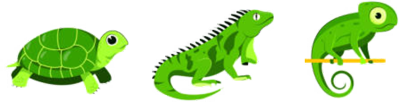
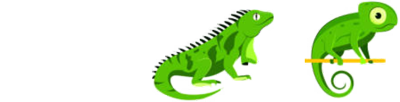
Add files via upload

Changed region(s): [[0.0, 0.2647, 0.33, 0.9412]]

diff --git a/index_edge.js b/index_edge.js
@@ -29,7 +29,7 @@ var symbols = {
             {
                 id: 'a',
                 type: 'image',
-                rect: ['0px', '594px','117px','78px','auto', 'auto'],
+                rect: ['1px', '584px','117px','78px','auto', 'auto'],
                 fill: ["rgba(0,0,0,0)",im+"a.jpg",'0px','0px']
             },
             {
@@ -49,15 +49,9 @@ var symbols = {
             {
                 id: 'ci',
                 type: 'image',
-                rect: ['0px', '209px','120px','120px','auto', 'auto'],
+                rect: ['0px', '216px','120px','120px','auto', 'auto'],
                 fill: ["rgba(0,0,0,0)",im+"ci.png",'0px','0px'],
                 transform: [[],['90']]
-            },
-            {
-                id: 'bu',
-                type: 'image',
-                rect: ['449px', '30','30px','174px','auto', 'auto'],
-                fill: ["rgba(0,0,0,0)",im+"bu.jpg",'0px','0px']
             },
             {
                 id: 'gr',
@@ -70,10 +64,10 @@ var symbols = {
             {
                 id: 't',
                 type: 'image',
-                rect: ['-76px', '493px','272px','48px','auto', 'auto'],
+                rect: ['-76px', '466px','272px','48px','auto', 'auto'],
                 clip: ['rect(0px 272px 48px 56px)'],
                 fill: ["rgba(0,0,0,0)",im+"t.jpg",'0px','0px'],
-                transform: [[],['-90'],[],['0.78858','0.78858']]
+                transform: [[],['-90']]
             },
             {
                 id: 'li',
@@ -86,7 +80,7 @@ var symbols = {
             {
                 id: 'a1',
                 type: 'image',
-                rect: ['-117px', '215px','336px','123px','auto', 'auto'],
+                rect: ['-117px', '222px','336px','123px','auto', 'auto'],
                 clip: ['rect(2px 251.44102478027344px 123px 103.08131408691406px)'],
                 fill: ["rgba(0,0,0,0)",im+"a1.png",'0px','0px'],
                 transform: [[],[],[],['0.99339','0.99339']]
@@ -94,16 +88,14 @@ var symbols = {
             {
                 id: 'a3',
                 type: 'image',
-                rect: ['9px', '230px','336px','86px','auto', 'auto'],
-                fill: ["rgba(0,0,0,0)",im+"a3.png",'0px','0px'],
-                transform: [[],[],[],[],['15.7738%','51.938%']]
+                rect: ['9px', '237px','336px','86px','auto', 'auto'],
+                fill: ["rgba(0,0,0,0)",im+"a3.png",'0px','0px']
             },
             {
                 id: 'a4',
                 type: 'image',
-                rect: ['-221px', '195px','336px','128px','auto', 'auto'],
-                fill: ["rgba(0,0,0,0)",im+"a4.png",'0px','0px'],
-                transform: [[],[],[],[],['86.0119%','48.4375%']]
+                rect: ['-221px', '202px','336px','128px','auto', 'auto'],
+                fill: ["rgba(0,0,0,0)",im+"a4.png",'0px','0px']
             },
             {
                 id: 'a2',
@@ -119,35 +111,35 @@ var symbols = {
     states: {
         "Base State": {
             "${_a2}": [
-                ["style", "top", '217px'],
+                ["style", "top", '218px'],
                 ["style", "background-position", [0,0], {valueTemplate:'@@0@@px @@1@@px'} ],
-                ["style", "clip", [0,336,143,204], {valueTemplate:'rect(@@0@@px @@1@@px @@2@@px @@3@@px)'} ],
+                ["style", "left", '-214px'],
                 ["style", "height", '143px'],
                 ["style", "opacity", '0'],
-                ["style", "left", '-214px'],
+                ["style", "clip", [0,336,143,204], {valueTemplate:'rect(@@0@@px @@1@@px @@2@@px @@3@@px)'} ],
                 ["style", "width", '336px']
             ],
             "${_li}": [
                 ["style", "top", '144px'],
                 ["transform", "scaleY", '0.85'],
-                ["style", "background-position", [0,20], {valueTemplate:'@@0@@px @@1@@px'} ],
+                ["style", "left", '1px'],
                 ["transform", "scaleX", '0.85'],
                 ["style", "opacity", '0'],
-                ["style", "clip", [20,120,47.66650390625,0], {valueTemplate:'rect(@@0@@px @@1@@px @@2@@px @@3@@px)'} ],
-                ["style", "left", '1px']
+                ["style", "background-position", [0,20], {valueTemplate:'@@0@@px @@1@@px'} ],
+                ["style", "clip", [20,120,47.66650390625,0], {valueTemplate:'rect(@@0@@px @@1@@px @@2@@px @@3@@px)'} ]
             ],
             "${_a}": [
-                ["style", "top", '594px'],
+                ["style", "top", '584px'],
                 ["style", "height", '78px'],
                 ["style", "opacity", '0'],
-                ["style", "left", '0px'],
+                ["style", "left", '1px'],
                 ["style", "width", '117px']
             ],
             "${_lo}": [
-                ["style", "top", '14px'],
+                ["style", "top", '10px'],
                 ["transform", "scaleY", '0.95'],
-                ["transform", "scaleX", '0.95'],
                 ["style", "height", '75px'],
+                ["transform", "scaleX", '0.95'],
                 ["style", "opacity", '0'],
                 ["style", "left", '2px'],
                 ["style", "width", '118px']
@@ -157,54 +149,47 @@ var symbols = {
                 ["style", "opacity", '1'],
                 ["style", "left", '-117px'],
                 ["style", "width", '336px'],
-                ["style", "top", '215px'],
+                ["style", "top", '222px'],
                 ["transform", "scaleY", '0'],
                 ["style", "height", '123px'],
                 ["style", "clip", [2,251.44102478027344,123,103.08131408691406], {valueTemplate:'rect(@@0@@px @@1@@px @@2@@px @@3@@px)'} ],
                 ["style", "background-position", [0,0], {valueTemplate:'@@0@@px @@1@@px'} ]
             ],
-            "${_bu}": [
-                ["style", "left", '449px']
+            "${_t}": [
+                ["transform", "rotateZ", '-90deg'],
+                ["transform", "scaleX", '1'],
+                ["style", "opacity", '0'],
+                ["style", "left", '-76px'],
+                ["style", "width", '272px'],
+                ["style", "top", '466px'],
+                ["transform", "scaleY", '1'],
+                ["style", "height", '48px'],
+                ["style", "clip", [0,272,48,56], {valueTemplate:'rect(@@0@@px @@1@@px @@2@@px @@3@@px)'} ]
             ],
             "${_gr}": [
                 ["style", "top", '347px'],
-                ["style", "clip", [0,118,42,29.90804672241211], {valueTemplate:'rect(@@0@@px @@1@@px @@2@@px @@3@@px)'} ],
-                ["transform", "scaleY", '1.25778'],
-                ["transform", "scaleX", '1.25778'],
                 ["style", "height", '42px'],
-                ["style", "opacity", '0'],
+                ["transform", "scaleY", '1.25778'],
                 ["style", "left", '-18px'],
-                ["style", "width", '118px']
-            ],
-            "${_a3}": [
-                ["style", "-webkit-transform-origin", [15.77,51.94], {valueTemplate:'@@0@@% @@1@@%'} ],
-                ["style", "-moz-transform-origin", [15.77,51.94],{valueTemplate:'@@0@@% @@1@@%'}],
-                ["style", "-ms-transform-origin", [15.77,51.94],{valueTemplate:'@@0@@% @@1@@%'}],
-                ["style", "msTransformOrigin", [15.77,51.94],{valueTemplate:'@@0@@% @@1@@%'}],
-                ["style", "-o-transform-origin", [15.77,51.94],{valueTemplate:'@@0@@% @@1@@%'}],
-                ["transform", "scaleX", '0'],
+                ["transform", "scaleX", '1.25778'],
                 ["style", "opacity", '0'],
-                ["style", "left", '9px'],
-                ["style", "width", '336px'],
-                ["style", "top", '230px'],
-                ["transform", "scaleY", '0'],
-                ["style", "height", '86px'],
-                ["style", "background-position", [0,0], {valueTemplate:'@@0@@px @@1@@px'} ]
+                ["style", "clip", [0,118,42,29.90804672241211], {valueTemplate:'rect(@@0@@px @@1@@px @@2@@px @@3@@px)'} ],
+                ["style", "width", '118px']
             ],
             "${_n}": [
                 ["style", "top", '98px'],
                 ["transform", "scaleY", '0.95'],
-                ["transform", "scaleX", '0.95'],
                 ["style", "height", '70px'],
+                ["transform", "scaleX", '0.95'],
                 ["style", "opacity", '0'],
                 ["style", "left", '2px'],
                 ["style", "width", '118px']
             ],
             "${_Stage}": [
                 ["color", "background-color", 'rgba(255,255,255,1)'],
-                ["style", "width", '120px'],
+                ["style", "overflow", 'hidden'],
                 ["style", "height", '670px'],
-                ["style", "overflow", 'hidden']
+                ["style", "width", '120px']
             ],
             "${_a4}": [
                 ["style", "-webkit-transform-origin", [86.01,48.44], {valueTemplate:'@@0@@% @@1@@%'} ],
@@ -216,28 +201,32 @@ var symbols = {
                 ["style", "opacity", '0'],
                 ["style", "left", '-221px'],
                 ["style", "width", '336px'],
-                ["style", "top", '195px'],
+                ["style", "top", '202px'],
                 ["transform", "scaleY", '0'],
                 ["style", "height", '128px'],
                 ["style", "clip", [0,336,128,0], {valueTemplate:'rect(@@0@@px @@1@@px @@2@@px @@3@@px)'} ],
                 ["style", "background-position", [0,0], {valueTemplate:'@@0@@px @@1@@px'} ]
             ],
             "${_ci}": [
-                ["style", "top", '209px'],
+                ["style", "top", '216px'],
                 ["style", "opacity", '0'],
                 ["style", "left", '0px'],
                 ["transform", "rotateZ", '90deg']
             ],
-            "${_t}": [
-                ["transform", "rotateZ", '-90deg'],
-                ["transform", "scaleX", '0.78858'],
+            "${_a3}": [
+                ["style", "-webkit-transform-origin", [15.77,51.94], {valueTemplate:'@@0@@% @@1@@%'} ],
+                ["style", "-moz-transform-origin", [15.77,51.94],{valueTemplate:'@@0@@% @@1@@%'}],
+                ["style", "-ms-transform-origin", [15.77,51.94],{valueTemplate:'@@0@@% @@1@@%'}],
+                ["style", "msTransformOrigin", [15.77,51.94],{valueTemplate:'@@0@@% @@1@@%'}],
+                ["style", "-o-transform-origin", [15.77,51.94],{valueTemplate:'@@0@@% @@1@@%'}],
+                ["transform", "scaleX", '0'],
                 ["style", "opacity", '0'],
-                ["style", "left", '-76px'],
-                ["style", "width", '272px'],
-                ["style", "top", '493px'],
-                ["transform", "scaleY", '0.78858'],
-                ["style", "height", '48px'],
-                ["style", "clip", [0,272,48,56], {valueTemplate:'rect(@@0@@px @@1@@px @@2@@px @@3@@px)'} ]
+                ["style", "left", '9px'],
+                ["style", "width", '336px'],
+                ["style", "top", '237px'],
+                ["transform", "scaleY", '0'],
+                ["style", "height", '86px'],
+                ["style", "background-position", [0,0], {valueTemplate:'@@0@@px @@1@@px'} ]
             ]
         }
     },
@@ -245,72 +234,79 @@ var symbols = {
         "Default Timeline": {
             fromState: "Base State",
             toState: "",
-            duration: 23333,
+            duration: 21000,
             autoPlay: true,
             timeline: [
-                { id: "eid68", tween: [ "transform", "${_a3}", "scaleX", '1', { fromValue: '0'}], position: 13583, duration: 280 },
-                { id: "eid99", tween: [ "style", "${_gr}", "left", '-18px', { fromValue: '-18px'}], position: 1333, duration: 0 },
-                { id: "eid119", tween: [ "style", "${_n}", "opacity", '1', { fromValue: '0'}], position: 444, duration: 444 },
-                { id: "eid100", tween: [ "style", "${_gr}", "top", '347px', { fromValue: '347px'}], position: 1333, duration: 0 },
-                { id: "eid48", tween: [ "style", "${_a4}", "background-position", [107.55533854166,0], { valueTemplate: '@@0@@px @@1@@px', fromValue: [0,0]}], position: 8833, duration: 500 },
-                { id: "eid59", tween: [ "style", "${_a4}", "background-position", [231.55497233072,0], { valueTemplate: '@@0@@px @@1@@px', fromValue: [107.55533854166,0]}], position: 10833, duration: 568 },
-                { id: "eid3", tween: [ "transform", "${_a1}", "scaleY", '0.8', { fromValue: '0'}], position: 1333, duration: 250 },
-                { id: "eid81", tween: [ "transform", "${_a1}", "scaleY", '0.9', { fromValue: '0.8'}], position: 3428, duration: 189 },
-                { id: "eid109", tween: [ "style", "${_ci}", "opacity", '1', { fromValue: '0'}], position: 889, duration: 444 },
-                { id: "eid93", tween: [ "style", "${_a2}", "background-position", [125.33349609375,0], { valueTemplate: '@@0@@px @@1@@px', fromValue: [0,0]}], position: 19583, duration: 568 },
-                { id: "eid96", tween: [ "style", "${_a2}", "background-position", [252,0], { valueTemplate: '@@0@@px @@1@@px', fromValue: [125.33349609375,0]}], position: 21333, duration: 568 },
-                { id: "eid4", tween: [ "transform", "${_a1}", "scaleX", '0.8', { fromValue: '0'}], position: 1333, duration: 250 },
-                { id: "eid80", tween: [ "transform", "${_a1}", "scaleX", '0.9', { fromValue: '0.8'}], position: 3428, duration: 189 },
-                { id: "eid47", tween: [ "style", "${_a4}", "clip", [0,336,128,233.3333282470703], { valueTemplate: 'rect(@@0@@px @@1@@px @@2@@px @@3@@px)', fromValue: [0,336,128,0]}], position: 7330, duration: 157 },
-                { id: "eid49", tween: [ "style", "${_a4}", "clip", [0,362.6666564941406,128,202.66709899902344], { valueTemplate: 'rect(@@0@@px @@1@@px @@2@@px @@3@@px)', fromValue: [0,336,128,233.3333282470703]}], position: 8833, duration: 500 },
-                { id: "eid69", tween: [ "transform", "${_a3}", "scaleY", '1', { fromValue: '0'}], position: 13583, duration: 280 },
-                { id: "eid74", tween: [ "style", "${_a3}", "background-position", [-124,0], { valueTemplate: '@@0@@px @@1@@px', fromValue: [0,0]}], position: 15083, duration: 568 },
-                { id: "eid77", tween: [ "style", "${_a3}", "background-position", [-249.33349609375,0], { valueTemplate: '@@0@@px @@1@@px', fromValue: [-124,0]}], position: 16833, duration: 568 },
-                { id: "eid113", tween: [ "style", "${_lo}", "opacity", '1', { fromValue: '0'}], position: 0, duration: 444 },
-                { id: "eid71", tween: [ "style", "${_a3}", "opacity", '1', { fromValue: '0'}], position: 13749, duration: 115 },
-                { id: "eid72", tween: [ "style", "${_a3}", "opacity", '0', { fromValue: '1'}], position: 15083, duration: 115 },
-                { id: "eid73", tween: [ "style", "${_a3}", "opacity", '1', { fromValue: '0'}], position: 15536, duration: 115 },
-                { id: "eid75", tween: [ "style", "${_a3}", "opacity", '0', { fromValue: '1'}], position: 16833, duration: 115 },
-                { id: "eid76", tween: [ "style", "${_a3}", "opacity", '1', { fromValue: '0'}], position: 17286, duration: 115 },
-                { id: "eid84", tween: [ "style", "${_a3}", "opacity", '0', { fromValue: '1'}], position: 18229, duration: 104 },
-                { id: "eid17", tween: [ "style", "${_a1}", "opacity", '0', { fromValue: '1'}], position: 3083, duration: 115 },
-                { id: "eid19", tween: [ "style", "${_a1}", "opacity", '1', { fromValue: '0'}], position: 3617, duration: 115 },
-                { id: "eid21", tween: [ "style", "${_a1}", "opacity", '0', { fromValue: '1'}], position: 5333, duration: 115 },
-                { id: "eid24", tween: [ "style", "${_a1}", "opacity", '1', { fromValue: '0'}], position: 5833, duration: 115 },
-                { id: "eid41", tween: [ "style", "${_a1}", "opacity", '0', { fromValue: '1'}], position: 6991, duration: 115 },
-                { id: "eid127", tween: [ "style", "${_li}", "background-position", [0,-16.470588235294], { valueTemplate: '@@0@@px @@1@@px', fromValue: [0,20]}], position: 3198, duration: 419 },
-                { id: "eid129", tween: [ "style", "${_li}", "background-position", [0,-47.058823294118], { valueTemplate: '@@0@@px @@1@@px', fromValue: [0,-16.470588]}], position: 5333, duration: 496 },
-                { id: "eid130", tween: [ "style", "${_li}", "background-position", [0,-79.999999470588], { valueTemplate: '@@0@@px @@1@@px', fromValue: [0.000000,-47.058823]}], position: 6991, duration: 259 },
-                { id: "eid131", tween: [ "style", "${_li}", "background-position", [0,-109.41176370588], { valueTemplate: '@@0@@px @@1@@px', fromValue: [0.000000,-79.999999]}], position: 9102, duration: 231 },
-                { id: "eid132", tween: [ "style", "${_li}", "background-position", [0,-145.88235223529], { valueTemplate: '@@0@@px @@1@@px', fromValue: [0.000000,-109.411764]}], position: 11000, duration: 250 },
-                { id: "eid133", tween: [ "style", "${_li}", "background-position", [0,-178.82352847059], { valueTemplate: '@@0@@px @@1@@px', fromValue: [0.000000,-145.882352]}], position: 13333, duration: 250 },
-                { id: "eid134", tween: [ "style", "${_li}", "background-position", [0,-211.76470447059], { valueTemplate: '@@0@@px @@1@@px', fromValue: [0.000000,-178.823528]}], position: 18479, duration: 305 },
-                { id: "eid135", tween: [ "style", "${_li}", "background-position", [0,-237.64705694118], { valueTemplate: '@@0@@px @@1@@px', fromValue: [0.000000,-211.764704]}], position: 19698, duration: 338 },
-                { id: "eid86", tween: [ "style", "${_a2}", "opacity", '1', { fromValue: '0'}], position: 18479, duration: 104 },
-                { id: "eid91", tween: [ "style", "${_a2}", "opacity", '0', { fromValue: '1'}], position: 19583, duration: 115 },
-                { id: "eid92", tween: [ "style", "${_a2}", "opacity", '1', { fromValue: '0'}], position: 20036, duration: 115 },
-                { id: "eid94", tween: [ "style", "${_a2}", "opacity", '0', { fromValue: '1'}], position: 21333, duration: 115 },
-                { id: "eid95", tween: [ "style", "${_a2}", "opacity", '1', { fromValue: '0'}], position: 21786, duration: 115 },
-                { id: "eid115", tween: [ "style", "${_t}", "opacity", '1', { fromValue: '0'}], position: 1333, duration: 1000 },
-                { id: "eid61", tween: [ "style", "${_a4}", "opacity", '1', { fromValue: '0'}], position: 7424, duration: 115 },
-                { id: "eid55", tween: [ "style", "${_a4}", "opacity", '0', { fromValue: '1'}], position: 8833, duration: 115 },
-                { id: "eid56", tween: [ "style", "${_a4}", "opacity", '1', { fromValue: '0'}], position: 9218, duration: 115 },
-                { id: "eid57", tween: [ "style", "${_a4}", "opacity", '0', { fromValue: '1'}], position: 10833, duration: 115 },
-                { id: "eid58", tween: [ "style", "${_a4}", "opacity", '1', { fromValue: '0'}], position: 11286, duration: 115 },
-                { id: "eid62", tween: [ "style", "${_a4}", "opacity", '0', { fromValue: '1'}], position: 12833, duration: 115 },
-                { id: "eid125", tween: [ "style", "${_li}", "opacity", '1', { fromValue: '0'}], position: 1333, duration: 667 },
-                { id: "eid36", tween: [ "style", "${_a1}", "background-position", [110,0], { valueTemplate: '@@0@@px @@1@@px', fromValue: [0,0]}], position: 3083, duration: 115 },
-                { id: "eid38", tween: [ "style", "${_a1}", "background-position", [130,0], { valueTemplate: '@@0@@px @@1@@px', fromValue: [110,0]}], position: 3198, duration: 635 },
-                { id: "eid39", tween: [ "style", "${_a1}", "background-position", [-127.5,0], { valueTemplate: '@@0@@px @@1@@px', fromValue: [130,0]}], position: 5333, duration: 568 },
-                { id: "eid111", tween: [ "style", "${_gr}", "opacity", '1', { fromValue: '0'}], position: 1333, duration: 800 },
-                { id: "eid37", tween: [ "style", "${_a1}", "clip", [2,216.44102478027344,123,103.08131408691406], { valueTemplate: 'rect(@@0@@px @@1@@px @@2@@px @@3@@px)', fromValue: [2,251.44102478027344,123,103.08131408691406]}], position: 3083, duration: 534 },
-                { id: "eid40", tween: [ "style", "${_a1}", "clip", [2,216.44102478027344,123,123.08131408691406], { valueTemplate: 'rect(@@0@@px @@1@@px @@2@@px @@3@@px)', fromValue: [2,216.44102478027344,123,103.08131408691406]}], position: 5333, duration: 568 },
-                { id: "eid46", tween: [ "transform", "${_a4}", "scaleY", '0.8', { fromValue: '0'}], position: 7372, duration: 115 },
-                { id: "eid45", tween: [ "transform", "${_a4}", "scaleX", '0.8', { fromValue: '0'}], position: 7372, duration: 115 },
-                { id: "eid32", tween: [ "transform", "${_ci}", "rotateZ", '0deg', { fromValue: '90deg'}], position: 6991, duration: 339 },
-                { id: "eid82", tween: [ "transform", "${_ci}", "rotateZ", '-90deg', { fromValue: '0deg'}], position: 13083, duration: 250 },
-                { id: "eid85", tween: [ "transform", "${_ci}", "rotateZ", '-180deg', { fromValue: '-90deg'}], position: 18333, duration: 146 },
-                { id: "eid117", tween: [ "style", "${_a}", "opacity", '1', { fromValue: '0'}], position: 1533, duration: 800 }            ]
+                { id: "eid68", tween: [ "transform", "${_a3}", "scaleX", '1', { fromValue: '0'}], position: 13333, duration: 280, easing: "easeInOutCubic" },
+                { id: "eid86", tween: [ "style", "${_a2}", "opacity", '1', { fromValue: '0'}], position: 16479, duration: 104, easing: "easeInOutCubic" },
+                { id: "eid91", tween: [ "style", "${_a2}", "opacity", '0', { fromValue: '1'}], position: 17583, duration: 115, easing: "easeInOutCubic" },
+                { id: "eid92", tween: [ "style", "${_a2}", "opacity", '1', { fromValue: '0'}], position: 18036, duration: 115, easing: "easeInOutCubic" },
+                { id: "eid94", tween: [ "style", "${_a2}", "opacity", '0', { fromValue: '1'}], position: 19333, duration: 115, easing: "easeInOutCubic" },
+                { id: "eid95", tween: [ "style", "${_a2}", "opacity", '1', { fromValue: '0'}], position: 19786, duration: 115, easing: "easeInOutCubic" },
+                { id: "eid36", tween: [ "style", "${_a1}", "background-position", [110,0], { valueTemplate: '@@0@@px @@1@@px', fromValue: [0,0]}], position: 3083, duration: 115, easing: "easeInOutCubic" },
+                { id: "eid38", tween: [ "style", "${_a1}", "background-position", [130,0], { valueTemplate: '@@0@@px @@1@@px', fromValue: [110,0]}], position: 3198, duration: 635, easing: "easeInOutCubic" },
+                { id: "eid39", tween: [ "style", "${_a1}", "background-position", [-127.5,0], { valueTemplate: '@@0@@px @@1@@px', fromValue: [130,0]}], position: 5333, duration: 568, easing: "easeInOutCubic" },
+                { id: "eid113", tween: [ "style", "${_lo}", "opacity", '1', { fromValue: '0'}], position: 0, duration: 444, easing: "easeInOutCubic" },
+                { id: "eid37", tween: [ "style", "${_a1}", "clip", [2,216.44102478027344,123,103.08131408691406], { valueTemplate: 'rect(@@0@@px @@1@@px @@2@@px @@3@@px)', fromValue: [2,251.44102478027344,123,103.08131408691406]}], position: 3083, duration: 534, easing: "easeInOutCubic" },
+                { id: "eid40", tween: [ "style", "${_a1}", "clip", [2,216.44102478027344,123,123.08131408691406], { valueTemplate: 'rect(@@0@@px @@1@@px @@2@@px @@3@@px)', fromValue: [2,216.44102478027344,123,103.08131408691406]}], position: 5333, duration: 568, easing: "easeInOutCubic" },
+                { id: "eid119", tween: [ "style", "${_n}", "opacity", '1', { fromValue: '0'}], position: 444, duration: 444, easing: "easeInOutCubic" },
+                { id: "eid71", tween: [ "style", "${_a3}", "opacity", '1', { fromValue: '0'}], position: 13500, duration: 115, easing: "easeInOutCubic" },
+                { id: "eid75", tween: [ "style", "${_a3}", "opacity", '0', { fromValue: '1'}], position: 14833, duration: 115, easing: "easeInOutCubic" },
+                { id: "eid76", tween: [ "style", "${_a3}", "opacity", '1', { fromValue: '0'}], position: 15286, duration: 115, easing: "easeInOutCubic" },
+                { id: "eid84", tween: [ "style", "${_a3}", "opacity", '0', { fromValue: '1'}], position: 16229, duration: 104, easing: "easeInOutCubic" },
+                { id: "eid143", tween: [ "style", "${_lo}", "top", '10px', { fromValue: '10px'}], position: 10224, duration: 0 },
+                { id: "eid111", tween: [ "style", "${_gr}", "opacity", '1', { fromValue: '0'}], position: 10833, duration: 800, easing: "easeInOutCubic" },
+                { id: "eid146", tween: [ "style", "${_gr}", "opacity", '0', { fromValue: '1'}], position: 20500, duration: 444, easing: "easeInOutCubic" },
+                { id: "eid141", tween: [ "style", "${_gr}", "top", '607px', { fromValue: '347px'}], position: 10500, duration: 0 },
+                { id: "eid48", tween: [ "style", "${_a4}", "background-position", [107.55533854166,0], { valueTemplate: '@@0@@px @@1@@px', fromValue: [0,0]}], position: 8833, duration: 500, easing: "easeInOutCubic" },
+                { id: "eid59", tween: [ "style", "${_a4}", "background-position", [231.55497233072,0], { valueTemplate: '@@0@@px @@1@@px', fromValue: [107.55533854166,0]}], position: 10833, duration: 568, easing: "easeInOutCubic" },
+                { id: "eid74", tween: [ "style", "${_a3}", "background-position", [-124,0], { valueTemplate: '@@0@@px @@1@@px', fromValue: [0,0]}], position: 13186, duration: 427, easing: "easeInOutCubic" },
+                { id: "eid77", tween: [ "style", "${_a3}", "background-position", [-249.33349609375,0], { valueTemplate: '@@0@@px @@1@@px', fromValue: [-124,0]}], position: 14833, duration: 568, easing: "easeInOutCubic" },
+                { id: "eid125", tween: [ "style", "${_li}", "opacity", '1', { fromValue: '0'}], position: 1333, duration: 667, easing: "easeInOutCubic" },
+                { id: "eid127", tween: [ "style", "${_li}", "background-position", [0,-16.470588235294], { valueTemplate: '@@0@@px @@1@@px', fromValue: [0,20]}], position: 3198, duration: 419, easing: "easeInOutCubic" },
+                { id: "eid129", tween: [ "style", "${_li}", "background-position", [0,-47.058823294118], { valueTemplate: '@@0@@px @@1@@px', fromValue: [0,-16.470588]}], position: 5333, duration: 496, easing: "easeInOutCubic" },
+                { id: "eid130", tween: [ "style", "${_li}", "background-position", [0,-79.999999470588], { valueTemplate: '@@0@@px @@1@@px', fromValue: [0,-47.058823]}], position: 6991, duration: 259, easing: "easeInOutCubic" },
+                { id: "eid131", tween: [ "style", "${_li}", "background-position", [0,-109.41176370588], { valueTemplate: '@@0@@px @@1@@px', fromValue: [0,-79.999999]}], position: 9102, duration: 231, easing: "easeInOutCubic" },
+                { id: "eid132", tween: [ "style", "${_li}", "background-position", [0,-145.88235223529], { valueTemplate: '@@0@@px @@1@@px', fromValue: [0,-109.411764]}], position: 11000, duration: 250, easing: "easeInOutCubic" },
+                { id: "eid133", tween: [ "style", "${_li}", "background-position", [0,-178.82352847059], { valueTemplate: '@@0@@px @@1@@px', fromValue: [0,-145.882352]}], position: 13333, duration: 250, easing: "easeInOutCubic" },
+                { id: "eid134", tween: [ "style", "${_li}", "background-position", [0,-211.76470447059], { valueTemplate: '@@0@@px @@1@@px', fromValue: [0,-178.823528]}], position: 16479, duration: 305, easing: "easeInOutCubic" },
+                { id: "eid135", tween: [ "style", "${_li}", "background-position", [0,-237.64705694118], { valueTemplate: '@@0@@px @@1@@px', fromValue: [0,-211.764704]}], position: 17698, duration: 338, easing: "easeInOutCubic" },
+                { id: "eid61", tween: [ "style", "${_a4}", "opacity", '1', { fromValue: '0'}], position: 7424, duration: 115, easing: "easeInOutCubic" },
+                { id: "eid55", tween: [ "style", "${_a4}", "opacity", '0', { fromValue: '1'}], position: 8833, duration: 115, easing: "easeInOutCubic" },
+                { id: "eid56", tween: [ "style", "${_a4}", "opacity", '1', { fromValue: '0'}], position: 9218, duration: 115, easing: "easeInOutCubic" },
+                { id: "eid57", tween: [ "style", "${_a4}", "opacity", '0', { fromValue: '1'}], position: 10833, duration: 115, easing: "easeInOutCubic" },
+                { id: "eid58", tween: [ "style", "${_a4}", "opacity", '1', { fromValue: '0'}], position: 11286, duration: 115, easing: "easeInOutCubic" },
+                { id: "eid62", tween: [ "style", "${_a4}", "opacity", '0', { fromValue: '1'}], position: 12833, duration: 115, easing: "easeInOutCubic" },
+                { id: "eid3", tween: [ "transform", "${_a1}", "scaleY", '0.8', { fromValue: '0'}], position: 1333, duration: 250, easing: "easeInOutCubic" },
+                { id: "eid81", tween: [ "transform", "${_a1}", "scaleY", '0.9', { fromValue: '0.8'}], position: 3428, duration: 189, easing: "easeInOutCubic" },
+                { id: "eid109", tween: [ "style", "${_ci}", "opacity", '1', { fromValue: '0'}], position: 1000, duration: 444, easing: "easeInOutCubic" },
+                { id: "eid17", tween: [ "style", "${_a1}", "opacity", '0', { fromValue: '1'}], position: 3083, duration: 115, easing: "easeInOutCubic" },
+                { id: "eid19", tween: [ "style", "${_a1}", "opacity", '1', { fromValue: '0'}], position: 3617, duration: 115, easing: "easeInOutCubic" },
+                { id: "eid21", tween: [ "style", "${_a1}", "opacity", '0', { fromValue: '1'}], position: 5333, duration: 115, easing: "easeInOutCubic" },
+                { id: "eid24", tween: [ "style", "${_a1}", "opacity", '1', { fromValue: '0'}], position: 5833, duration: 115, easing: "easeInOutCubic" },
+                { id: "eid41", tween: [ "style", "${_a1}", "opacity", '0', { fromValue: '1'}], position: 6991, duration: 115, easing: "easeInOutCubic" },
+                { id: "eid93", tween: [ "style", "${_a2}", "background-position", [125.33349609375,0], { valueTemplate: '@@0@@px @@1@@px', fromValue: [0,0]}], position: 17583, duration: 568, easing: "easeInOutCubic" },
+                { id: "eid96", tween: [ "style", "${_a2}", "background-position", [252,0], { valueTemplate: '@@0@@px @@1@@px', fromValue: [125.33349609375,0]}], position: 19333, duration: 568, easing: "easeInOutCubic" },
+                { id: "eid32", tween: [ "transform", "${_ci}", "rotateZ", '0deg', { fromValue: '90deg'}], position: 6991, duration: 339, easing: "easeInOutCubic" },
+                { id: "eid82", tween: [ "transform", "${_ci}", "rotateZ", '-90deg', { fromValue: '0deg'}], position: 13083, duration: 250, easing: "easeInOutCubic" },
+                { id: "eid85", tween: [ "transform", "${_ci}", "rotateZ", '-180deg', { fromValue: '-90deg'}], position: 16333, duration: 146, easing: "easeInOutCubic" },
+                { id: "eid4", tween: [ "transform", "${_a1}", "scaleX", '0.8', { fromValue: '0'}], position: 1333, duration: 250, easing: "easeInOutCubic" },
+                { id: "eid80", tween: [ "transform", "${_a1}", "scaleX", '0.9', { fromValue: '0.8'}], position: 3428, duration: 189, easing: "easeInOutCubic" },
+                { id: "eid47", tween: [ "style", "${_a4}", "clip", [0,336,128,233.3333282470703], { valueTemplate: 'rect(@@0@@px @@1@@px @@2@@px @@3@@px)', fromValue: [0,336,128,0]}], position: 7330, duration: 157, easing: "easeInOutCubic" },
+                { id: "eid49", tween: [ "style", "${_a4}", "clip", [0,362.6666564941406,128,202.66709899902344], { valueTemplate: 'rect(@@0@@px @@1@@px @@2@@px @@3@@px)', fromValue: [0,336,128,233.3333282470703]}], position: 8833, duration: 500, easing: "easeInOutCubic" },
+                { id: "eid45", tween: [ "transform", "${_a4}", "scaleX", '0.8', { fromValue: '0'}], position: 7372, duration: 115, easing: "easeInOutCubic" },
+                { id: "eid142", tween: [ "style", "${_a2}", "top", '218px', { fromValue: '218px'}], position: 21000, duration: 0 },
+                { id: "eid115", tween: [ "style", "${_t}", "opacity", '1', { fromValue: '0'}], position: 444, duration: 889, easing: "easeInOutCubic" },
+                { id: "eid155", tween: [ "style", "${_t}", "opacity", '0', { fromValue: '1'}], position: 6900, duration: 214, easing: "easeInOutCubic" },
+                { id: "eid157", tween: [ "style", "${_t}", "opacity", '1', { fromValue: '0'}], position: 7114, duration: 373, easing: "easeInOutCubic" },
+                { id: "eid158", tween: [ "style", "${_t}", "opacity", '0', { fromValue: '1'}], position: 12833, duration: 214, easing: "easeInOutCubic" },
+                { id: "eid159", tween: [ "style", "${_t}", "opacity", '1', { fromValue: '0'}], position: 13047, duration: 373, easing: "easeInOutCubic" },
+                { id: "eid160", tween: [ "style", "${_t}", "opacity", '0', { fromValue: '1'}], position: 16784, duration: 214, easing: "easeInOutCubic" },
+                { id: "eid161", tween: [ "style", "${_t}", "opacity", '1', { fromValue: '0'}], position: 16998, duration: 373, easing: "easeInOutCubic" },
+                { id: "eid69", tween: [ "transform", "${_a3}", "scaleY", '1', { fromValue: '0'}], position: 13333, duration: 280, easing: "easeInOutCubic" },
+                { id: "eid46", tween: [ "transform", "${_a4}", "scaleY", '0.8', { fromValue: '0'}], position: 7372, duration: 115, easing: "easeInOutCubic" },
+                { id: "eid117", tween: [ "style", "${_a}", "opacity", '1', { fromValue: '0'}], position: 444, duration: 800, easing: "easeInOutCubic" },
+                { id: "eid148", tween: [ "style", "${_a}", "opacity", '0', { fromValue: '1'}], position: 10833, duration: 444, easing: "easeInOutCubic" }            ]
         }
     }
 }

diff --git a/index_edgeActions.js b/index_edgeActions.js
@@ -13,7 +13,7 @@ var Composition = Edge.Composition, Symbol = Edge.Symbol; // aliases for commonl
    (function(symbolName) {
       
       
-      Symbol.bindTriggerAction(compId, symbolName, "Default Timeline", 23333, function(sym, e) {
+      Symbol.bindTriggerAction(compId, symbolName, "Default Timeline", 21000, function(sym, e) {
          // insert code here
          sym.play(0);
 

diff --git a/index_edgePreload.js b/index_edgePreload.js
@@ -50,8 +50,8 @@ if(document.addEventListener ){
    };
 
    aLoader = [
-      { load: "https://molbuk.ua/jquery-2.0.3.min.js"},
-      { load: "https://molbuk.ua/edge.4.0.0.min.js"},
+      { load: "edge_includes/jquery-2.0.3.min.js"},
+      { load: "edge_includes/edge.4.0.0.min.js"},
       { load: "index_edge.js"},
       { load: "index_edgeActions.js"}];
 
